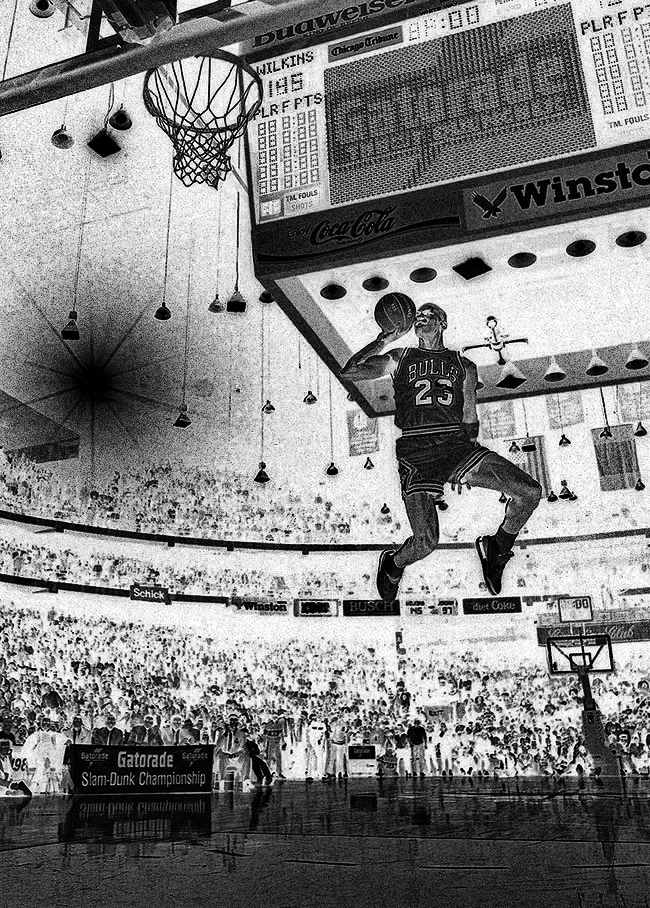
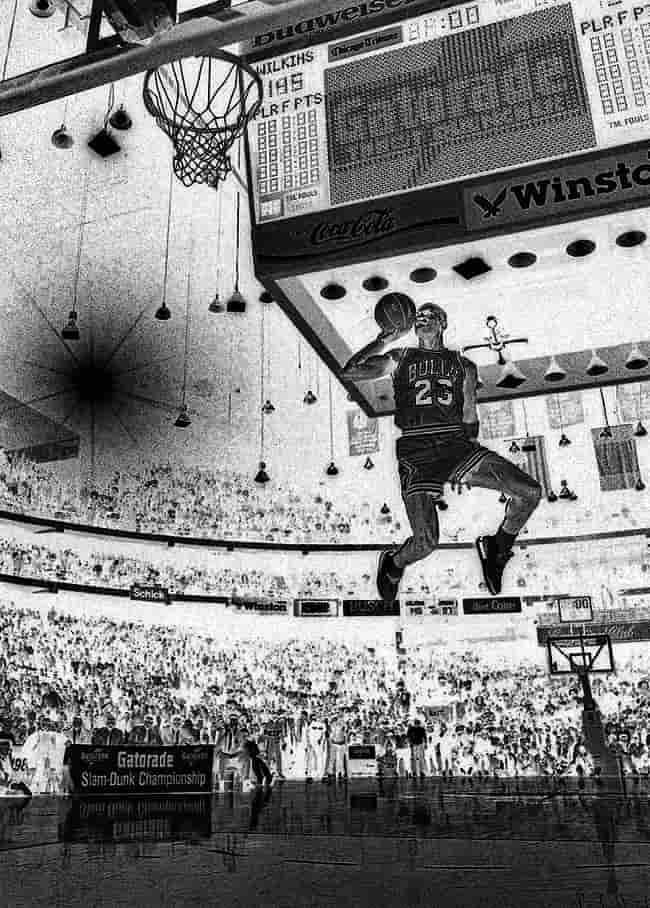
img optimizing

diff --git a/index.html b/index.html
@@ -18,7 +18,7 @@
         </div>
 
         <div id="base__container_layer" class="steve unselectable">
-            <img class="base__image_steve unselectable" src="./public/assets/steve-irwin-bindi.png" alt="">
+            <img class="base__image_steve unselectable" src="./public/assets/steve-irwin-bindi.jpg" alt="">
             <div class="sizing__layer_steve gradient__layer_steve unselectable">
                 <div class="sizing__layer_steve masking__layer_steve unselectable"></div>
             </div>

diff --git a/style.css b/style.css
@@ -197,7 +197,7 @@ img {
     border-radius: 4.55% / 3.5%;
     border-bottom: 0.3rem solid green;
     mix-blend-mode: screen;
-    background-image: url(./public/assets/turts.jpeg);
+    background-image: url(./public/assets/turts.jpg);
     transition-duration: 3000ms;
     opacity: 0.2;
   }
